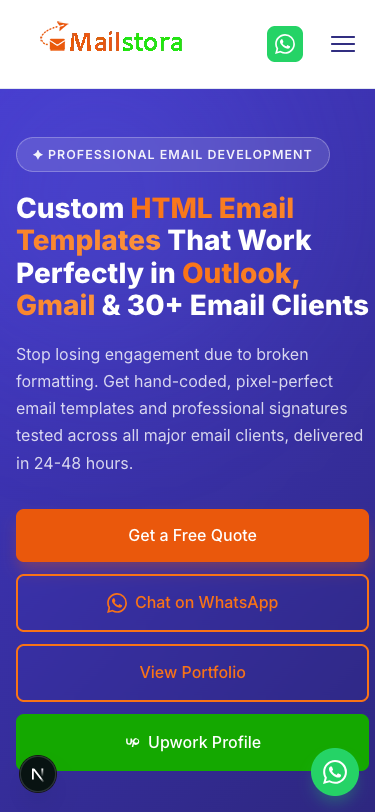
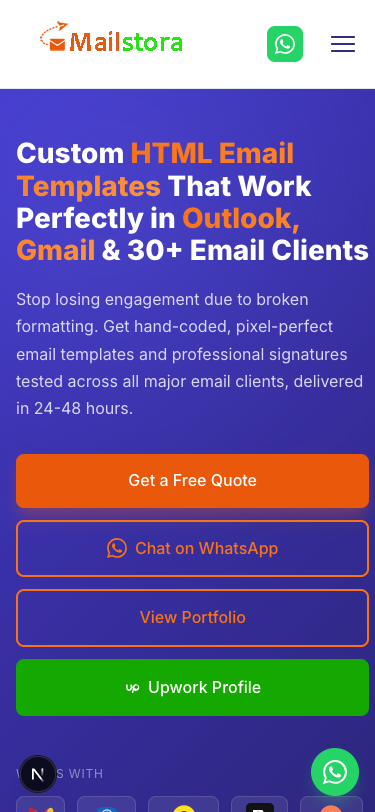
doneeee

diff --git a/Client/src/app/components/WhyChooseUs.css b/Client/src/app/components/WhyChooseUs.css
@@ -1,53 +1,15 @@
-.why-choose-split-layout {
-    display: flex;
-    flex-direction: column;
-    gap: 3rem;
-}
-
-@media (min-width: 992px) {
-    .why-choose-split-layout {
-        display: grid;
-        grid-template-columns: 1fr 1.6fr;
-        gap: 5rem;
-        align-items: start;
-    }
-    .why-choose-sidebar {
-        position: sticky;
-        top: 120px;
-        text-align: left;
-    }
-}
-
-.why-choose-badge {
-    display: inline-block;
-    background-color: #eef2ff;
-    color: #2d287b;
-    padding: 6px 16px;
-    border-radius: 999px;
-    font-size: 13px;
-    font-weight: 700;
-    margin-bottom: 1rem;
-    letter-spacing: 0.05em;
-}
-
-.why-choose-title {
-    font-size: 2.2rem;
-    font-weight: 800;
-    color: #0f172a;
-    margin-bottom: 1rem;
-    line-height: 1.25;
-}
-
-.why-choose-description {
-    color: #64748b;
-    font-size: 1.05rem;
-    line-height: 1.65;
+.why-choose-header {
+    text-align: center;
+    max-width: 600px;
+    margin: 0 auto 3rem auto;
 }
 
 .why-choose-grid {
     display: grid;
     grid-template-columns: 1fr;
     gap: 2rem;
+    max-width: 1000px;
+    margin: 0 auto;
 }
 
 @media (min-width: 768px) {

diff --git a/Client/src/app/components/WhyChooseUs.tsx b/Client/src/app/components/WhyChooseUs.tsx
@@ -68,32 +68,25 @@ export default function WhyChooseUs() {
     return (
         <section className="why-choose-section section section-alt" id="why-choose">
             <div className="container">
-                <div className="why-choose-split-layout">
-                    {/* Left Column: Info Sidebar */}
-                    <div className="why-choose-sidebar">
-                        <div className="why-choose-badge">✦ WHY MAILSTORA</div>
-                        <h2 className="why-choose-title">Why Choose MailStora?</h2>
-                        <p className="why-choose-description">
-                            We build robust, hand-coded email templates that look great everywhere, so you can focus on growing your business.
-                        </p>
-                    </div>
-
-                    {/* Right Column: Grid of features */}
-                    <div className="why-choose-grid-wrap">
-                        <div className="why-choose-grid">
-                            {features.map((feature, idx) => (
-                                <div key={idx} className="why-choose-card">
-                                    <div className="why-choose-icon">
-                                        {feature.icon}
-                                    </div>
-                                    <div className="why-choose-content">
-                                        <h3>{feature.title}</h3>
-                                        <p>{feature.description}</p>
-                                    </div>
-                                </div>
-                            ))}
+                <div className="why-choose-header text-center">
+                    <h2 className="section-title">Why Choose MailStora?</h2>
+                    <p className="section-subtitle">
+                        We build robust, hand-coded email templates that look great everywhere, so you can focus on growing your business.
+                    </p>
+                </div>
+                
+                <div className="why-choose-grid">
+                    {features.map((feature, idx) => (
+                        <div key={idx} className="why-choose-card">
+                            <div className="why-choose-icon">
+                                {feature.icon}
+                            </div>
+                            <div className="why-choose-content">
+                                <h3>{feature.title}</h3>
+                                <p>{feature.description}</p>
+                            </div>
                         </div>
-                    </div>
+                    ))}
                 </div>
             </div>
         </section>

diff --git a/Client/src/app/components/Problem.tsx b/Client/src/app/components/Problem.tsx
@@ -32,11 +32,7 @@ export default function Problem() {
         <section className="problem-section" id="problem">
             <div className="problem-container problem-split-layout">
 
-                {/* Left Column: Title and info */}
                 <div className="problem-info-col">
-                    <div className="problem-badge">
-                        <span>🧠</span> THE PROBLEM
-                    </div>
                     <h2 className="problem-heading">
                         Tired of Emails That Look Perfect…<br />
                         <span className="problem-heading-accent">Until You Send Them?</span>

diff --git a/Client/src/app/components/Hero.tsx b/Client/src/app/components/Hero.tsx
@@ -26,8 +26,6 @@ export default function Hero({ data }: { data?: any }) {
             <div className="container hero-container">
                 {/* ── LEFT: Copy & CTAs ── */}
                 <div className="hero-content">
-                    <span className="hero-badge">✦ Professional Email Development</span>
-
                     <h1 className="hero-title" dangerouslySetInnerHTML={{ __html: heroData.title }}></h1>
 
                     <p className="hero-subtitle">

diff --git a/Client/src/app/components/FAQ.tsx b/Client/src/app/components/FAQ.tsx
@@ -44,7 +44,6 @@ export default function FAQ({ data = [] }: { data?: any[] }) {
                 <div className="faq-split-layout">
                     {/* Left Column: Title and CTA card */}
                     <div className="faq-sidebar">
-                        <div className="faq-badge">✦ FAQ</div>
                         <h2 className="faq-title">Frequently Asked Questions</h2>
                         <p className="faq-subtitle">Everything you need to know before getting started.</p>
                         

diff --git a/Client/src/app/components/Portfolio.tsx b/Client/src/app/components/Portfolio.tsx
@@ -53,7 +53,6 @@ export default function Portfolio({ data }: { data?: any }) {
         <section className="portfolio-section" id="portfolio">
             <div className="container">
                 <div className="portfolio-header text-center">
-                    <div className="section-pill">✦ OUR PORTFOLIO</div>
                     <h2 className="section-title">
                         Recent Work That <span className="text-orange">Delivers Results</span>
                     </h2>

diff --git a/Client/src/app/components/Pricing.tsx b/Client/src/app/components/Pricing.tsx
@@ -40,7 +40,6 @@ export default function Pricing({ data }: { data?: any }) {
         <section className="pricing-section section" id="prices">
             <div className="container" style={{ maxWidth: '1040px' }}>
                 <div className="pricing-header text-center">
-                    <div className="pricing-label-pill">✦ Pricing</div>
                     <h2 className="section-title" dangerouslySetInnerHTML={{
                         __html: settings.sectionTitle.replace('Transparent Pricing', '<span class="text-orange">Transparent Pricing</span>')
                     }}>